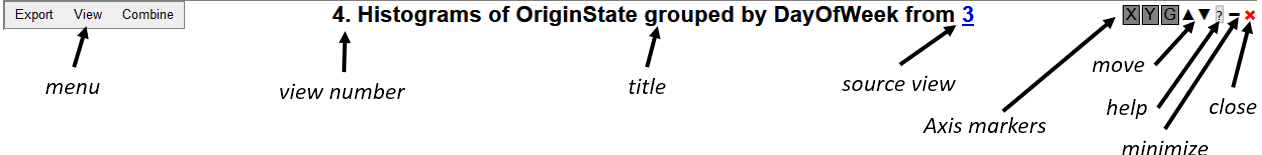
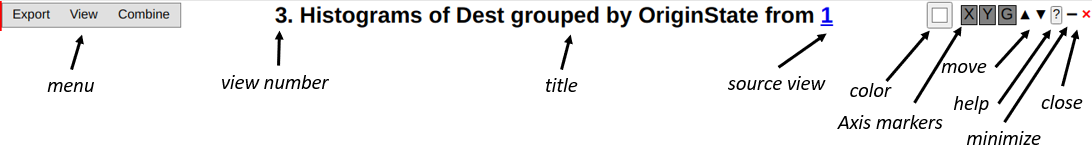
Enable users to change the view title color

diff --git a/web/src/main/webapp/ui/fullPage.ts b/web/src/main/webapp/ui/fullPage.ts
@@ -179,6 +179,13 @@ export class FullPage implements IHtmlElement {
             h2.appendChild(refLink);
         }
 
+        const picker = document.createElement("input");
+        picker.type = "color";
+        picker.style.width = "20px";
+        picker.value = "#ffffff";
+        picker.oninput = () => { this.setTitleColor(picker.value); };
+        this.addCell(picker, true);
+
         if (this.dataset != null) {
             this.eBox = makeSpan(SpecialChars.epsilon);
             this.eBox.title = "Data is shown with differential privacy.";
@@ -257,6 +264,10 @@ export class FullPage implements IHtmlElement {
 
         this.bottomContainer.appendChild(this.progressManager.getHTMLRepresentation());
         this.bottomContainer.appendChild(this.console.getHTMLRepresentation());
+    }
+
+    public getColor(): string {
+        return this.titleRow.style.background;
     }
 
     public changeEpsilon(): void {
@@ -467,5 +478,9 @@ export class FullPage implements IHtmlElement {
 
     public scrollIntoView(): void {
         this.getHTMLRepresentation().scrollIntoView( { block: "end", behavior: "smooth" } );
+    }
+
+    setTitleColor(color: string): void {
+        this.titleRow.style.background = color;
     }
 }

diff --git a/web/src/main/webapp/datasetView.ts b/web/src/main/webapp/datasetView.ts
@@ -431,6 +431,8 @@ export class DatasetView implements IHtmlElement {
     public newPage(title: PageTitle, sourcePage: FullPage | null): FullPage {
         const num = this.pageCounter++;
         const page = new FullPage(num, title, sourcePage != null ? sourcePage.pageId : null, this);
+        if (sourcePage != null)
+            page.setTitleColor(sourcePage.getColor());
         this.insertAfter(page, sourcePage);
         return page;
     }

diff --git a/platform/src/test/java/org/hillview/test/table/RowSnapShotTest.java b/platform/src/test/java/org/hillview/test/table/RowSnapShotTest.java
@@ -31,7 +31,6 @@ import org.junit.Assert;
 import org.junit.Test;
 
 import java.time.Instant;
-import java.time.temporal.TemporalUnit;
 import java.util.Collections;
 
 public class RowSnapShotTest extends BaseTest {

diff --git a/docs/userManual.md b/docs/userManual.md
@@ -26,7 +26,7 @@ one row for an airline flight.  Columns in this dataset include: the date of the
 the origin and destination cities, the origin and destination states,
 the origin airport code, the distance flown, the departure and arrival delay.
 
-Updated on 2020 Sep 29.
+Updated on 2020 Oct 19.
 
 # Contents
   * 1 [Basic concepts](#1-basic-concepts)
@@ -855,6 +855,9 @@ with x.
 
 ![View heading](view-heading.png)
 
+The color picker rectangle allows you to change the color of the title
+to make it easier to visually navigate; the color of a view is inherited
+by all views that are spawned by it.
 The two black triangles in the view heading allow the view to be moved
 up and down on the web page.  The axis markers X, Y, and G can be
 dragged between some views; dropping them will "move" the
